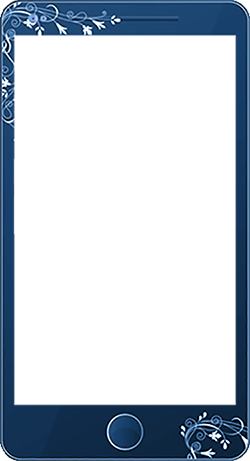
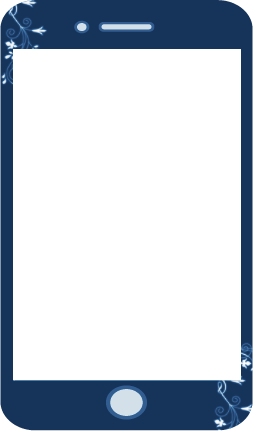
TEST/ SEO

Changed region(s): [[0.0, 0.0, 1.0, 1.0]]

diff --git a/src/components/Slider/Slider.module.scss b/src/components/Slider/Slider.module.scss
@@ -214,8 +214,8 @@
     }
 
     @media screen and (max-width: variables.$breakpoint-mobile) {
-        width: 250px;
-        height: 461px;
+        width: 253px;
+        height: 431px;
         top:-30px;
         left: -15px;
     }
